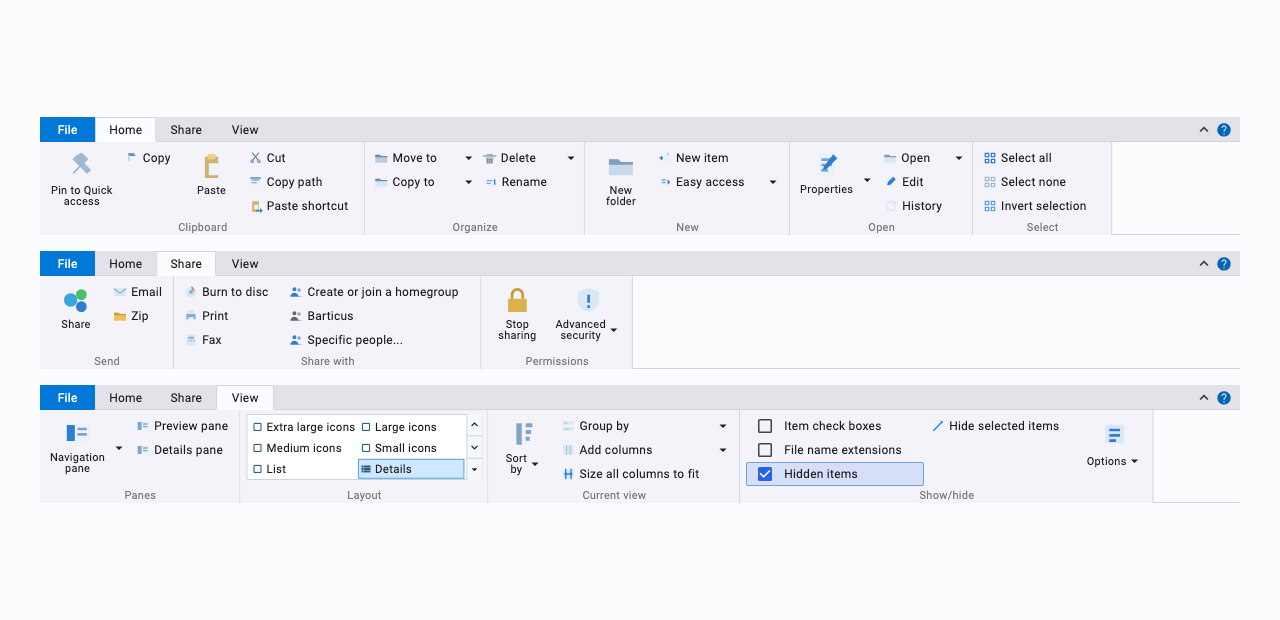
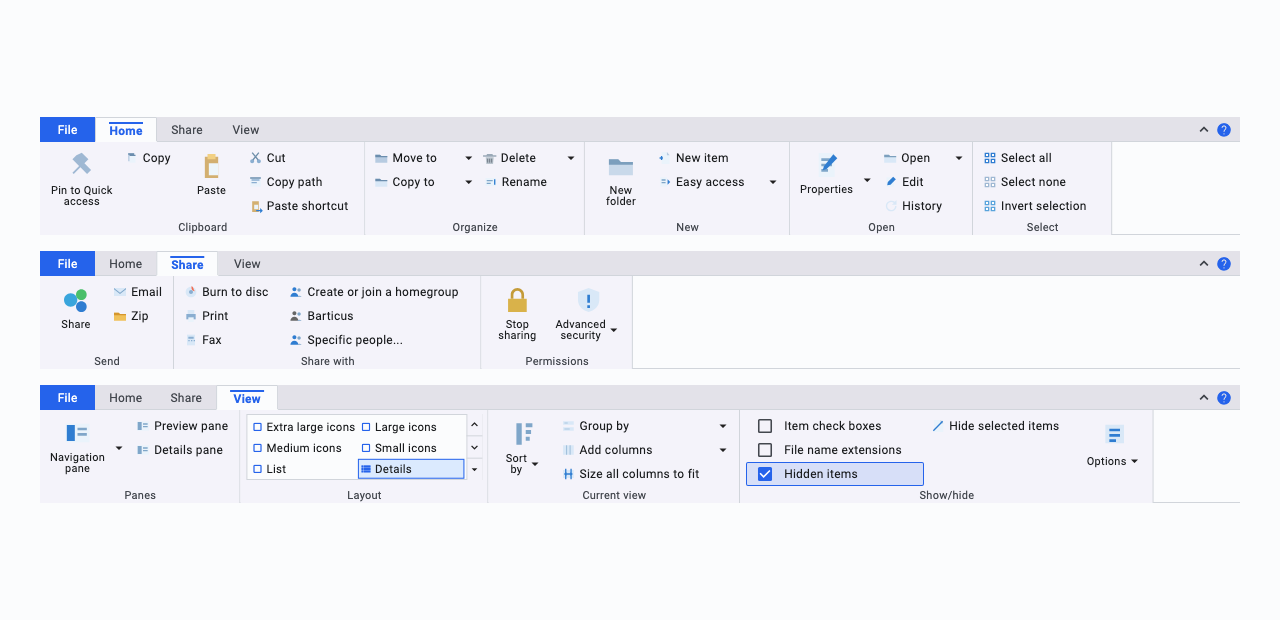
fix(ribbon): tokenize hardcoded Office colors to the DS ColorScheme
The ribbon still carried ~12 hardcoded Windows/Office colors that bypassed
the theme, so it rendered with the old look regardless of FxThemeData:
- File button + toggle/gallery/selection accents used #0078d7/#0067b8/#5aa4dc
  etc. -> ColorScheme.primary / primaryContainer.
- Group captions #7a7a7a, borders/dividers #c8d4e1, chrome #f5f8fb ->
  onSurfaceVariant / outlineVariant / surfaceContainerLow.
- Command icons were onSurface (grey); DS renders them primary -> blue.
- Active (non-contextual) tab now shows a primary underline + primary,
  semibold caption, matching the DS reference.

Behavior/API unchanged (12 ribbon tests pass). Regenerated the 6 ribbon
screenshots to the DS look (blue icons, blue active tab).

diff --git a/lib/src/fx_ribbon_toolbar.dart b/lib/src/fx_ribbon_toolbar.dart
@@ -282,9 +282,13 @@ class _FxRibbonToolbarState extends State<FxRibbonToolbar> {
                   ),
                 ),
               ),
-              const Padding(
-                padding: EdgeInsetsDirectional.only(end: 4),
-                child: Icon(Icons.help, size: 16, color: Color(0xff0067b8)),
+              Padding(
+                padding: const EdgeInsetsDirectional.only(end: 4),
+                child: Icon(
+                  Icons.help,
+                  size: 16,
+                  color: Theme.of(context).colorScheme.primary,
+                ),
               ),
               const SizedBox(width: 4),
             ],
@@ -454,8 +458,8 @@ class _RibbonGroupView extends StatelessWidget {
                 groupCaption,
                 maxLines: 1,
                 overflow: TextOverflow.ellipsis,
-                style: const TextStyle(
-                  color: Color(0xff7a7a7a),
+                style: TextStyle(
+                  color: colorScheme.onSurfaceVariant,
                   fontSize: 11,
                   height: 1.0,
                 ),
@@ -923,7 +927,7 @@ class _RibbonCommandChrome extends StatelessWidget {
                   : BoxDecoration(
                       border: Border.all(
                         color: item.isToggleActive
-                            ? const Color(0xff6aa7d9)
+                            ? colorScheme.primary
                             : Colors.transparent,
                       ),
                       borderRadius: BorderRadius.circular(
@@ -1017,17 +1021,26 @@ class _RibbonTabButton extends StatelessWidget {
                 child: Column(
                   mainAxisAlignment: MainAxisAlignment.center,
                   children: [
-                    if (accent != null)
+                    if (accent != null || selected)
                       Container(
                         height: 2,
                         width: 34,
                         margin: const EdgeInsets.only(bottom: 1),
-                        color: accent,
+                        color: accent ?? colorScheme.primary,
                       ),
                     Text(
                       caption,
                       overflow: TextOverflow.ellipsis,
-                      style: const TextStyle(fontSize: 12, height: 1.0),
+                      style: TextStyle(
+                        fontSize: 12,
+                        height: 1.0,
+                        color: selected
+                            ? (accent ?? colorScheme.primary)
+                            : colorScheme.onSurfaceVariant,
+                        fontWeight: selected
+                            ? FontWeight.w600
+                            : FontWeight.w400,
+                      ),
                     ),
                   ],
                 ),
@@ -1053,8 +1066,9 @@ class _ApplicationRibbonButton extends StatelessWidget {
 
   @override
   Widget build(BuildContext context) {
+    final colorScheme = Theme.of(context).colorScheme;
     return Material(
-      color: const Color(0xff0078d7),
+      color: colorScheme.primary,
       child: InkWell(
         onTap: () {},
         child: SizedBox(
@@ -1063,8 +1077,8 @@ class _ApplicationRibbonButton extends StatelessWidget {
           child: Center(
             child: Text(
               label,
-              style: const TextStyle(
-                color: Colors.white,
+              style: TextStyle(
+                color: colorScheme.onPrimary,
                 fontSize: 12,
                 height: 1.0,
               ),
@@ -1092,6 +1106,7 @@ class _RibbonGalleryView extends StatelessWidget {
 
   @override
   Widget build(BuildContext context) {
+    final colorScheme = Theme.of(context).colorScheme;
     final entries = item.menuItems
         .where((entry) => !entry.isSeparator)
         .toList();
@@ -1104,8 +1119,8 @@ class _RibbonGalleryView extends StatelessWidget {
           height: 66,
           child: DecoratedBox(
             decoration: BoxDecoration(
-              color: Colors.white,
-              border: Border.all(color: const Color(0xffc8d4e1)),
+              color: colorScheme.surface,
+              border: Border.all(color: colorScheme.outlineVariant),
             ),
             child: Row(
               children: [
@@ -1162,15 +1177,16 @@ class _RibbonGalleryTile extends StatelessWidget {
 
   @override
   Widget build(BuildContext context) {
+    final colorScheme = Theme.of(context).colorScheme;
     final caption = menuItem.resolveCaption(locale);
     return Material(
-      color: selected ? const Color(0xffcfe8ff) : Colors.transparent,
+      color: selected ? colorScheme.primaryContainer : Colors.transparent,
       child: InkWell(
         onTap: item.isEnabled ? onPressed : null,
         child: DecoratedBox(
           decoration: BoxDecoration(
             border: Border.all(
-              color: selected ? const Color(0xff5aa4dc) : Colors.transparent,
+              color: selected ? colorScheme.primary : Colors.transparent,
             ),
           ),
           child: Row(
@@ -1179,7 +1195,7 @@ class _RibbonGalleryTile extends StatelessWidget {
               Icon(
                 selected ? Icons.view_list : Icons.crop_square,
                 size: 12,
-                color: const Color(0xff2f5f87),
+                color: colorScheme.primary,
               ),
               const SizedBox(width: 3),
               Expanded(
@@ -1203,20 +1219,22 @@ class _RibbonGalleryScrollStrip extends StatelessWidget {
 
   @override
   Widget build(BuildContext context) {
+    final colorScheme = Theme.of(context).colorScheme;
+    final divider = colorScheme.outlineVariant;
     return DecoratedBox(
-      decoration: const BoxDecoration(
-        color: Color(0xfff5f8fb),
-        border: Border(left: BorderSide(color: Color(0xffc8d4e1))),
+      decoration: BoxDecoration(
+        color: colorScheme.surfaceContainerLow,
+        border: Border(left: BorderSide(color: divider)),
       ),
       child: SizedBox(
         width: 16,
         child: Column(
-          children: const [
-            Expanded(child: Icon(Icons.keyboard_arrow_up, size: 13)),
-            Divider(height: 1, thickness: 1, color: Color(0xffc8d4e1)),
-            Expanded(child: Icon(Icons.keyboard_arrow_down, size: 13)),
-            Divider(height: 1, thickness: 1, color: Color(0xffc8d4e1)),
-            Expanded(child: Icon(Icons.arrow_drop_down, size: 13)),
+          children: [
+            const Expanded(child: Icon(Icons.keyboard_arrow_up, size: 13)),
+            Divider(height: 1, thickness: 1, color: divider),
+            const Expanded(child: Icon(Icons.keyboard_arrow_down, size: 13)),
+            Divider(height: 1, thickness: 1, color: divider),
+            const Expanded(child: Icon(Icons.arrow_drop_down, size: 13)),
           ],
         ),
       ),

diff --git a/lib/src/fx_ribbon_icons.dart b/lib/src/fx_ribbon_icons.dart
@@ -198,8 +198,9 @@ class FxRibbonIconView extends StatelessWidget {
   @override
   Widget build(BuildContext context) {
     final colorScheme = Theme.of(context).colorScheme;
+    // DS ribbon command icons carry the primary/brand color; disabled fades.
     final foreground = enabled
-        ? colorScheme.onSurface
+        ? colorScheme.primary
         : colorScheme.onSurface.withValues(alpha: 0.38);
     final iconSource = source;
     final opacity = enabled ? 1.0 : 0.45;
